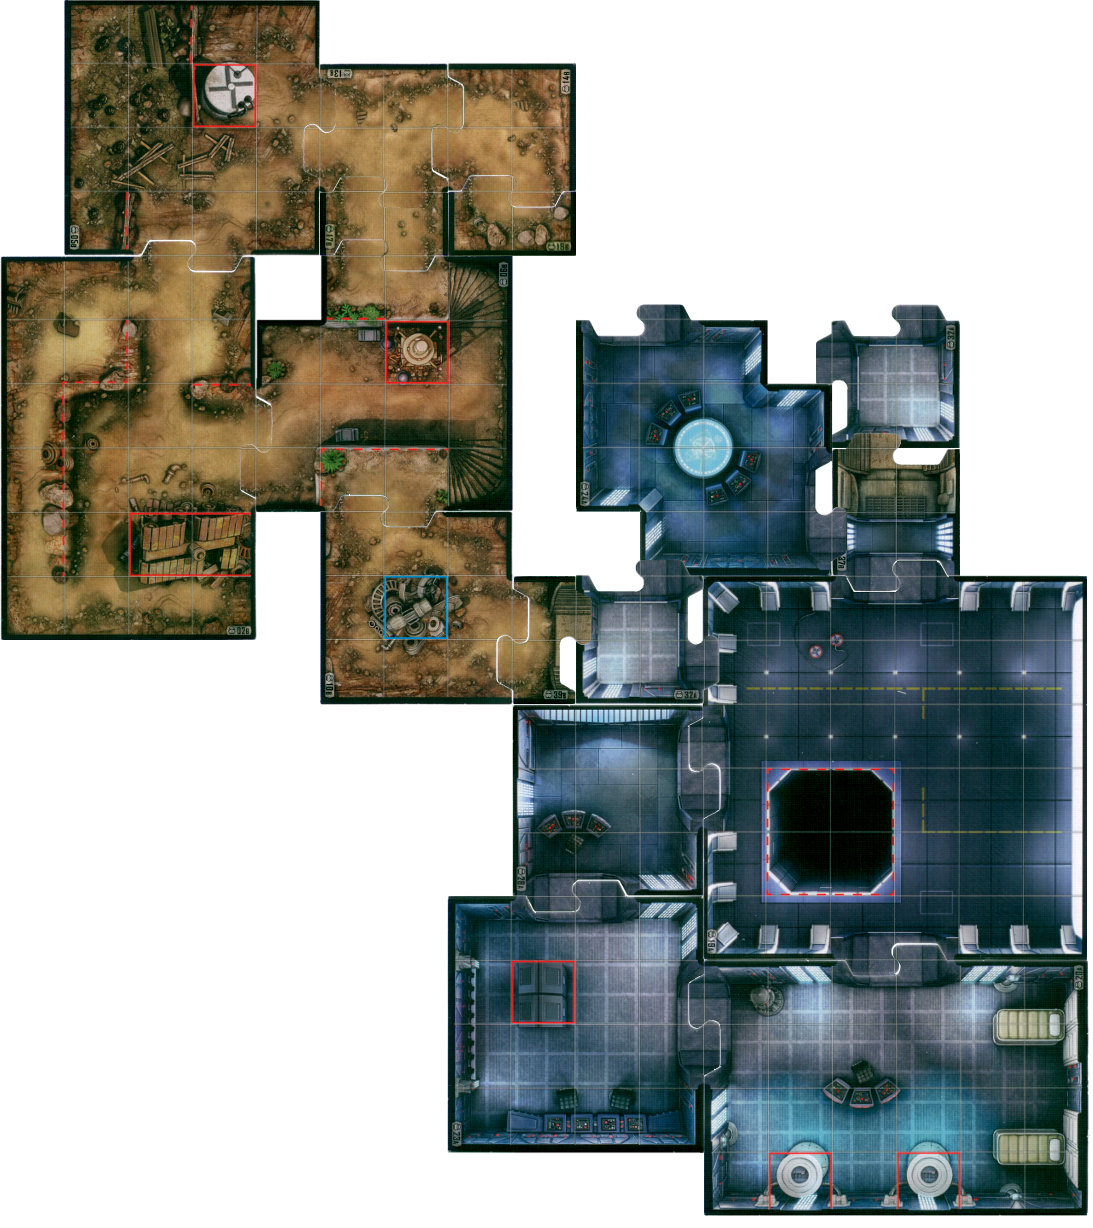
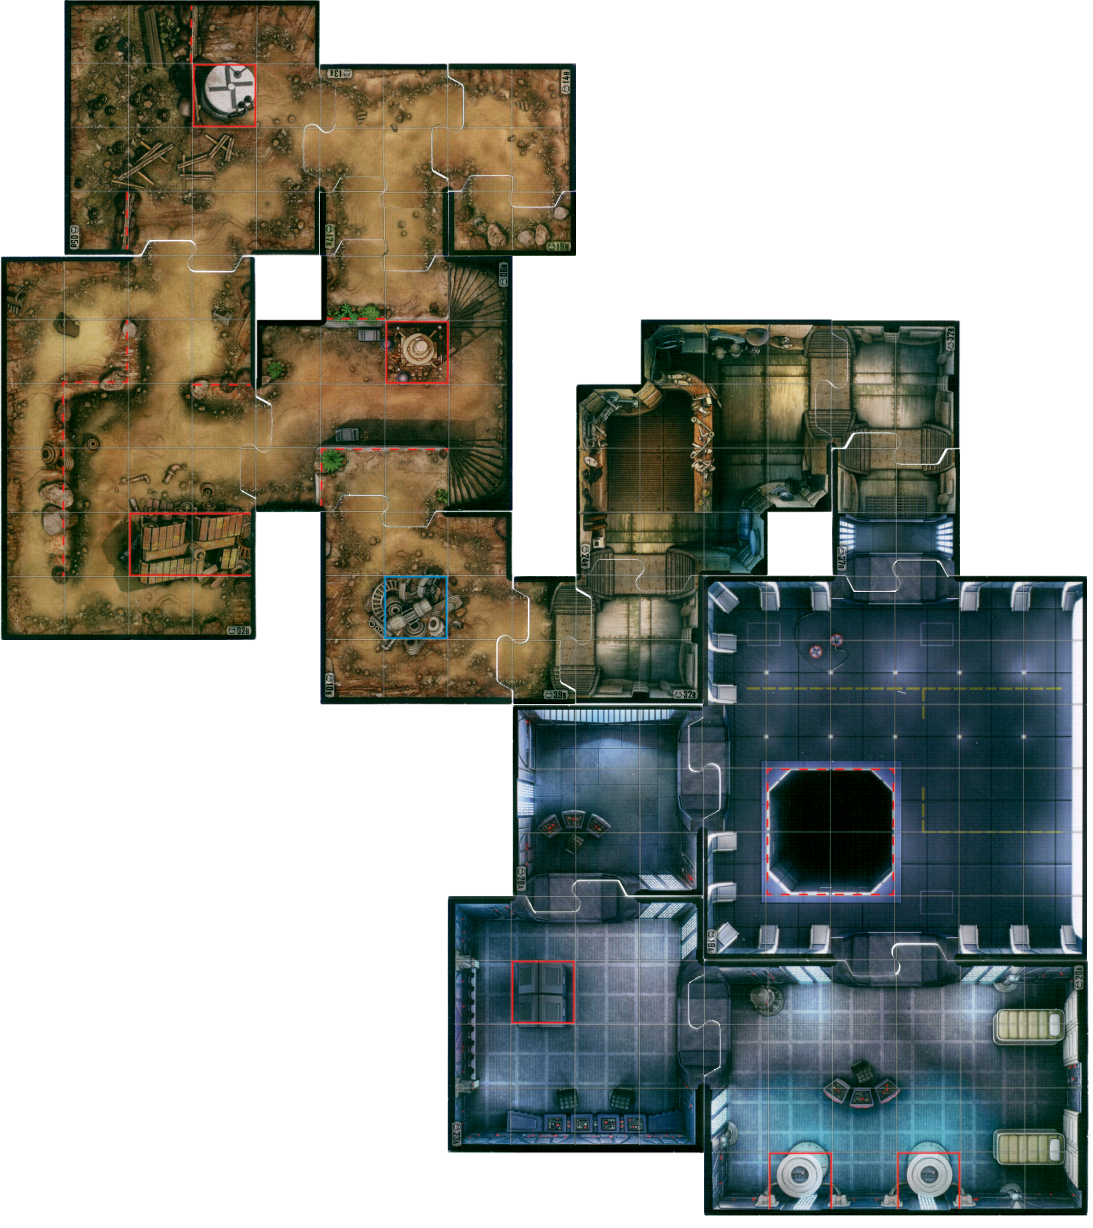
Desperate Hour: tiles 24B and 32B, not 24A and 32A
ImperialCommander2's layout has the wrong side of both tiles. With the B sides in IC2's places their tabs fit, and
the map is redrawn (imperial-assault-tools 339a25b, ia maps).

Changed region(s): [[0.4977, 0.2476, 0.9021, 0.5879]]

diff --git a/docs/data-model.md b/docs/data-model.md
@@ -416,7 +416,8 @@ A tile's images are cut on its outline: the connector tabs are kept and the notc
 side by side fit as on the table. They're 64 px per square, plus 32 px on each axis that has tabs, and the small
 image is the same file as the large one. They come from the Vassal *Imperial Assault Campaign Module* (1.14). The
 campaign maps' layouts come from [ImperialCommander2](https://github.com/GlowPuff/ImperialCommander2), summed over
-each mission's map sections; the skirmish and raid maps' were entered by the maintainer from their maps (`ia enter`'s
+each mission's map sections, with the sides it gets wrong corrected from the Campaign Guide (Desperate Hour uses 24B
+and 32B, not 24A and 32A); the skirmish and raid maps' were entered by the maintainer from their maps (`ia enter`'s
 Map layouts page). Every map has a layout.
 
 The campaign maps' images are drawn by imperial-assault-tools' `ia maps`: each tile side placed where
